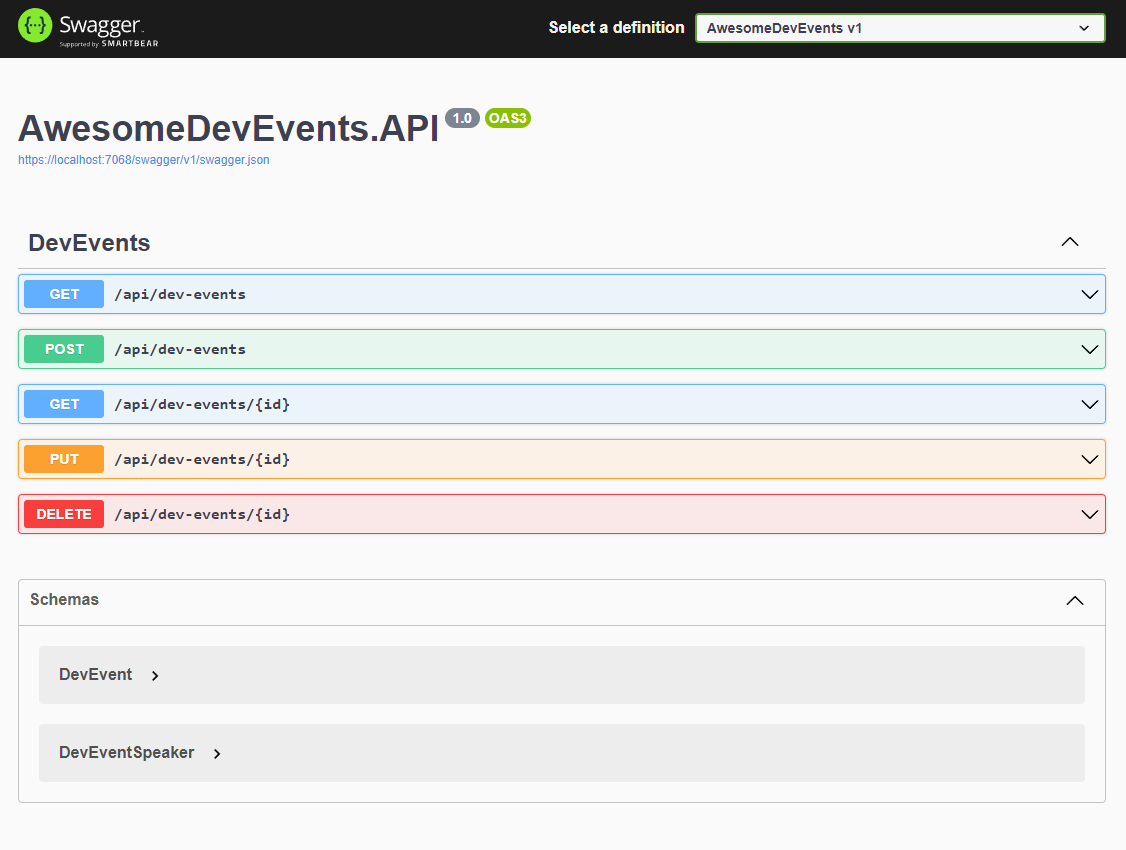
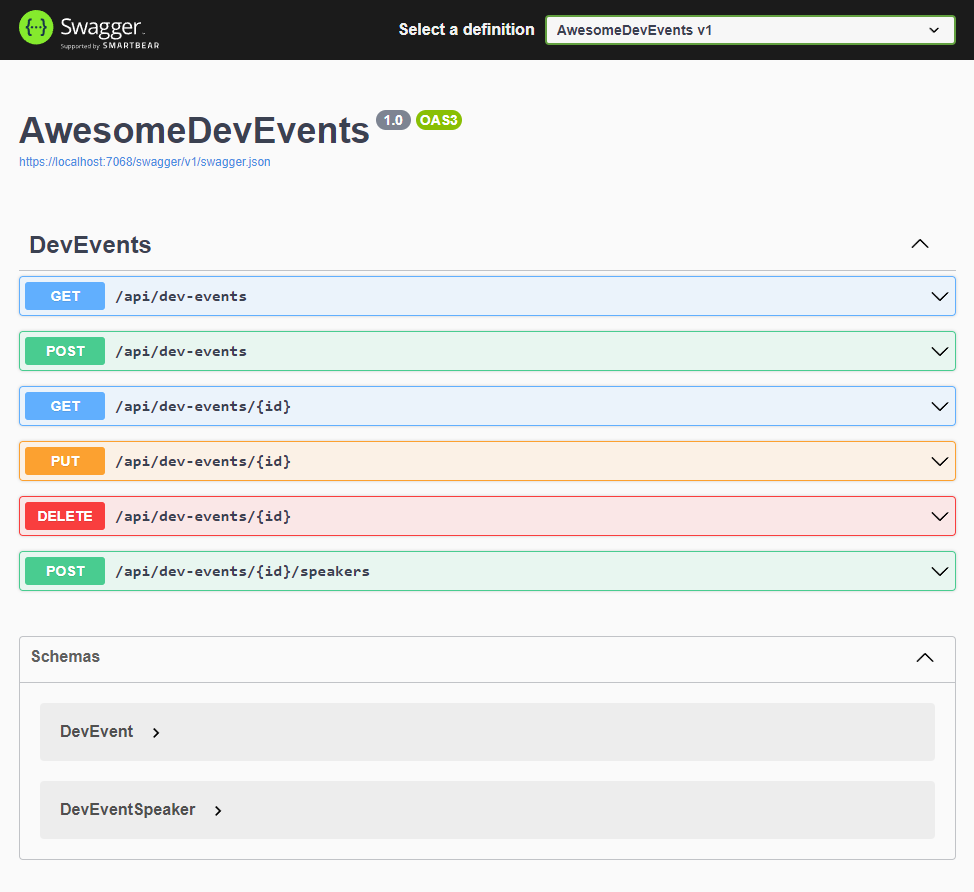
add SQL Server connection

diff --git a/AwesomeDevEvents/Persistence/Migrations/20230325232952_FirstMigration.Designer.cs b/AwesomeDevEvents/Persistence/Migrations/20230325232952_FirstMigration.Designer.cs
@@ -1,0 +1,106 @@
+// <auto-generated />
+using System;
+using AwesomeDevEvents.Persistence;
+using Microsoft.EntityFrameworkCore;
+using Microsoft.EntityFrameworkCore.Infrastructure;
+using Microsoft.EntityFrameworkCore.Metadata;
+using Microsoft.EntityFrameworkCore.Migrations;
+using Microsoft.EntityFrameworkCore.Storage.ValueConversion;
+
+#nullable disable
+
+namespace AwesomeDevEvents.Persistence.Migrations
+{
+    [DbContext(typeof(DevEventsDbContext))]
+    [Migration("20230325232952_FirstMigration")]
+    partial class FirstMigration
+    {
+        /// <inheritdoc />
+        protected override void BuildTargetModel(ModelBuilder modelBuilder)
+        {
+#pragma warning disable 612, 618
+            modelBuilder
+                .HasAnnotation("ProductVersion", "7.0.4")
+                .HasAnnotation("Relational:MaxIdentifierLength", 128);
+
+            SqlServerModelBuilderExtensions.UseIdentityColumns(modelBuilder);
+
+            modelBuilder.Entity("AwesomeDevEvents.Entities.DevEvent", b =>
+                {
+                    b.Property<Guid>("Id")
+                        .ValueGeneratedOnAdd()
+                        .HasColumnType("uniqueidentifier");
+
+                    b.Property<string>("Description")
+                        .IsRequired()
+                        .HasMaxLength(200)
+                        .HasColumnType("varchar(200)");
+
+                    b.Property<DateTime>("EndDate")
+                        .HasColumnType("datetime2")
+                        .HasColumnName("End_Date");
+
+                    b.Property<DateTime>("StartDate")
+                        .HasColumnType("datetime2")
+                        .HasColumnName("Start_Date");
+
+                    b.Property<string>("Title")
+                        .HasColumnType("nvarchar(max)");
+
+                    b.Property<bool>("isDeleted")
+                        .HasColumnType("bit");
+
+                    b.HasKey("Id");
+
+                    b.ToTable("DevEvents");
+                });
+
+            modelBuilder.Entity("AwesomeDevEvents.Entities.DevEventSpeaker", b =>
+                {
+                    b.Property<Guid>("Id")
+                        .ValueGeneratedOnAdd()
+                        .HasColumnType("uniqueidentifier");
+
+                    b.Property<Guid>("DevEventId")
+                        .HasColumnType("uniqueidentifier");
+
+                    b.Property<string>("LinkedinProfile")
+                        .IsRequired()
+                        .HasColumnType("nvarchar(max)");
+
+                    b.Property<string>("Name")
+                        .IsRequired()
+                        .HasColumnType("nvarchar(max)");
+
+                    b.Property<string>("TalkDescription")
+                        .IsRequired()
+                        .HasColumnType("nvarchar(max)");
+
+                    b.Property<string>("TalkTitle")
+                        .IsRequired()
+                        .HasColumnType("nvarchar(max)");
+
+                    b.HasKey("Id");
+
+                    b.HasIndex("DevEventId");
+
+                    b.ToTable("DevEventSpeakers");
+                });
+
+            modelBuilder.Entity("AwesomeDevEvents.Entities.DevEventSpeaker", b =>
+                {
+                    b.HasOne("AwesomeDevEvents.Entities.DevEvent", null)
+                        .WithMany("Speakers")
+                        .HasForeignKey("DevEventId")
+                        .OnDelete(DeleteBehavior.Cascade)
+                        .IsRequired();
+                });
+
+            modelBuilder.Entity("AwesomeDevEvents.Entities.DevEvent", b =>
+                {
+                    b.Navigation("Speakers");
+                });
+#pragma warning restore 612, 618
+        }
+    }
+}

diff --git a/AwesomeDevEvents/Persistence/Migrations/DevEventsDbContextModelSnapshot.cs b/AwesomeDevEvents/Persistence/Migrations/DevEventsDbContextModelSnapshot.cs
@@ -1,0 +1,103 @@
+// <auto-generated />
+using System;
+using AwesomeDevEvents.Persistence;
+using Microsoft.EntityFrameworkCore;
+using Microsoft.EntityFrameworkCore.Infrastructure;
+using Microsoft.EntityFrameworkCore.Metadata;
+using Microsoft.EntityFrameworkCore.Storage.ValueConversion;
+
+#nullable disable
+
+namespace AwesomeDevEvents.Persistence.Migrations
+{
+    [DbContext(typeof(DevEventsDbContext))]
+    partial class DevEventsDbContextModelSnapshot : ModelSnapshot
+    {
+        protected override void BuildModel(ModelBuilder modelBuilder)
+        {
+#pragma warning disable 612, 618
+            modelBuilder
+                .HasAnnotation("ProductVersion", "7.0.4")
+                .HasAnnotation("Relational:MaxIdentifierLength", 128);
+
+            SqlServerModelBuilderExtensions.UseIdentityColumns(modelBuilder);
+
+            modelBuilder.Entity("AwesomeDevEvents.Entities.DevEvent", b =>
+                {
+                    b.Property<Guid>("Id")
+                        .ValueGeneratedOnAdd()
+                        .HasColumnType("uniqueidentifier");
+
+                    b.Property<string>("Description")
+                        .IsRequired()
+                        .HasMaxLength(200)
+                        .HasColumnType("varchar(200)");
+
+                    b.Property<DateTime>("EndDate")
+                        .HasColumnType("datetime2")
+                        .HasColumnName("End_Date");
+
+                    b.Property<DateTime>("StartDate")
+                        .HasColumnType("datetime2")
+                        .HasColumnName("Start_Date");
+
+                    b.Property<string>("Title")
+                        .HasColumnType("nvarchar(max)");
+
+                    b.Property<bool>("isDeleted")
+                        .HasColumnType("bit");
+
+                    b.HasKey("Id");
+
+                    b.ToTable("DevEvents");
+                });
+
+            modelBuilder.Entity("AwesomeDevEvents.Entities.DevEventSpeaker", b =>
+                {
+                    b.Property<Guid>("Id")
+                        .ValueGeneratedOnAdd()
+                        .HasColumnType("uniqueidentifier");
+
+                    b.Property<Guid>("DevEventId")
+                        .HasColumnType("uniqueidentifier");
+
+                    b.Property<string>("LinkedinProfile")
+                        .IsRequired()
+                        .HasColumnType("nvarchar(max)");
+
+                    b.Property<string>("Name")
+                        .IsRequired()
+                        .HasColumnType("nvarchar(max)");
+
+                    b.Property<string>("TalkDescription")
+                        .IsRequired()
+                        .HasColumnType("nvarchar(max)");
+
+                    b.Property<string>("TalkTitle")
+                        .IsRequired()
+                        .HasColumnType("nvarchar(max)");
+
+                    b.HasKey("Id");
+
+                    b.HasIndex("DevEventId");
+
+                    b.ToTable("DevEventSpeakers");
+                });
+
+            modelBuilder.Entity("AwesomeDevEvents.Entities.DevEventSpeaker", b =>
+                {
+                    b.HasOne("AwesomeDevEvents.Entities.DevEvent", null)
+                        .WithMany("Speakers")
+                        .HasForeignKey("DevEventId")
+                        .OnDelete(DeleteBehavior.Cascade)
+                        .IsRequired();
+                });
+
+            modelBuilder.Entity("AwesomeDevEvents.Entities.DevEvent", b =>
+                {
+                    b.Navigation("Speakers");
+                });
+#pragma warning restore 612, 618
+        }
+    }
+}

diff --git a/AwesomeDevEvents/Persistence/Migrations/20230325232952_FirstMigration.cs b/AwesomeDevEvents/Persistence/Migrations/20230325232952_FirstMigration.cs
@@ -1,0 +1,68 @@
+using System;
+using Microsoft.EntityFrameworkCore.Migrations;
+
+#nullable disable
+
+namespace AwesomeDevEvents.Persistence.Migrations
+{
+    /// <inheritdoc />
+    public partial class FirstMigration : Migration
+    {
+        /// <inheritdoc />
+        protected override void Up(MigrationBuilder migrationBuilder)
+        {
+            migrationBuilder.CreateTable(
+                name: "DevEvents",
+                columns: table => new
+                {
+                    Id = table.Column<Guid>(type: "uniqueidentifier", nullable: false),
+                    Title = table.Column<string>(type: "nvarchar(max)", nullable: true),
+                    Description = table.Column<string>(type: "varchar(200)", maxLength: 200, nullable: false),
+                    Start_Date = table.Column<DateTime>(type: "datetime2", nullable: false),
+                    End_Date = table.Column<DateTime>(type: "datetime2", nullable: false),
+                    isDeleted = table.Column<bool>(type: "bit", nullable: false)
+                },
+                constraints: table =>
+                {
+                    table.PrimaryKey("PK_DevEvents", x => x.Id);
+                });
+
+            migrationBuilder.CreateTable(
+                name: "DevEventSpeakers",
+                columns: table => new
+                {
+                    Id = table.Column<Guid>(type: "uniqueidentifier", nullable: false),
+                    Name = table.Column<string>(type: "nvarchar(max)", nullable: false),
+                    TalkTitle = table.Column<string>(type: "nvarchar(max)", nullable: false),
+                    TalkDescription = table.Column<string>(type: "nvarchar(max)", nullable: false),
+                    LinkedinProfile = table.Column<string>(type: "nvarchar(max)", nullable: false),
+                    DevEventId = table.Column<Guid>(type: "uniqueidentifier", nullable: false)
+                },
+                constraints: table =>
+                {
+                    table.PrimaryKey("PK_DevEventSpeakers", x => x.Id);
+                    table.ForeignKey(
+                        name: "FK_DevEventSpeakers_DevEvents_DevEventId",
+                        column: x => x.DevEventId,
+                        principalTable: "DevEvents",
+                        principalColumn: "Id",
+                        onDelete: ReferentialAction.Cascade);
+                });
+
+            migrationBuilder.CreateIndex(
+                name: "IX_DevEventSpeakers_DevEventId",
+                table: "DevEventSpeakers",
+                column: "DevEventId");
+        }
+
+        /// <inheritdoc />
+        protected override void Down(MigrationBuilder migrationBuilder)
+        {
+            migrationBuilder.DropTable(
+                name: "DevEventSpeakers");
+
+            migrationBuilder.DropTable(
+                name: "DevEvents");
+        }
+    }
+}

diff --git a/AwesomeDevEvents/Program.cs b/AwesomeDevEvents/Program.cs
@@ -4,7 +4,13 @@ using Microsoft.EntityFrameworkCore;
 var builder = WebApplication.CreateBuilder(args);
 
 // Add services to the container.
-builder.Services.AddDbContext<DevEventsDbContext>(o => o.UseInMemoryDatabase("DevEventsDb"));
+var connectionString = builder.Configuration.GetConnectionString("DevEventsCs");
+
+// In Memory DB
+//builder.Services.AddDbContext<DevEventsDbContext>(o => o.UseInMemoryDatabase("DevEventsDb"));
+
+// SQL Server DB
+builder.Services.AddDbContext<DevEventsDbContext>(o => o.UseSqlServer(connectionString));
 
 builder.Services.AddControllers();
 // Learn more about configuring Swagger/OpenAPI at https://aka.ms/aspnetcore/swashbuckle
